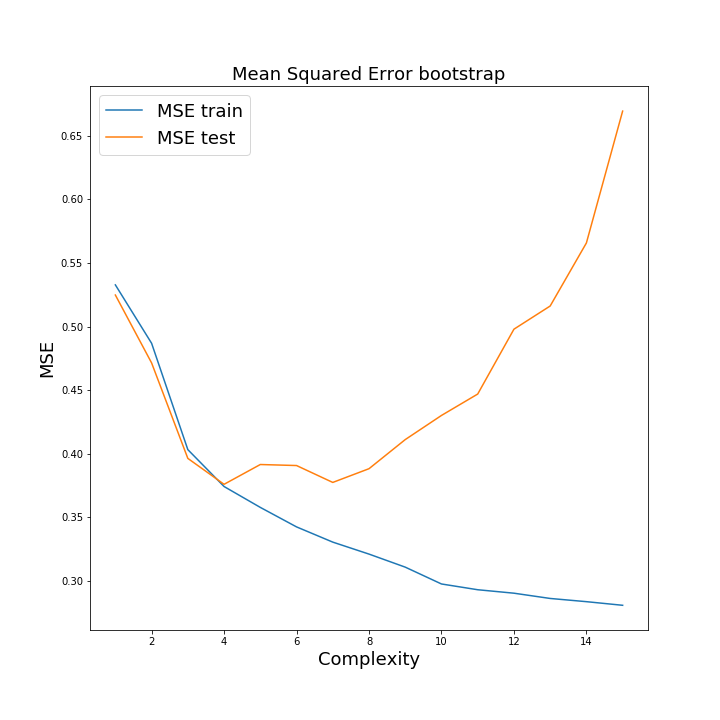
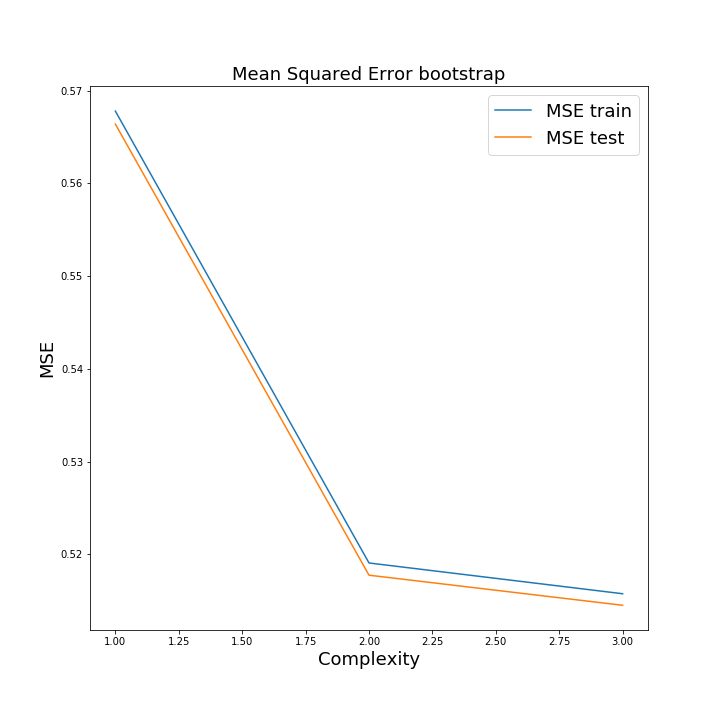
Working some more on ex. 6

diff --git a/Project1/ex1_terrain.py b/Project1/ex1_terrain.py
@@ -181,7 +181,7 @@ terrain1 = imread('SRTM_data_Norway_1.tif')
 z = (terrain1.flatten()).astype(float)
 N = len(z)
 x, y = np.meshgrid(range(terrain1.shape[1]), range(terrain1.shape[0])) #all possible (x,y) coordinates
-complex = 3 #complexity of model
+complex = 6 #complexity of model
 X = create_X(x.flatten(),y.flatten(), complex) #design matrix
 tts = train_test_split(X,z, test_size = 0.2)
 print(f"OLS terrain: {evaluate_method(ols, tts, scale = True, d = 5)}")
@@ -194,7 +194,7 @@ confidence_interval = ci(beta_l, variance_beta, N)
 
 
 #Exercise 2
-n_bs = 100 #number of bootstrap cycles
+n_bs = 5 #number of bootstrap cycles
 mse_test = np.zeros((complex, n_bs)) #for storing bootstrap samples' MSE for varying complexity (rows:complexity, columns:bootstrap sample)
 mse_train = np.zeros((complex, n_bs))
 r2_test = np.zeros((complex, n_bs))
@@ -205,8 +205,8 @@ print("Starting bootstrap")
 for j in range(n_bs): #looping through bootstrap samples
     X_sample, z_sample = bootstrap(tts[0],tts[2]) #using the same X_train and z_train data for each bootstrap
     tts2 = [X_sample, tts[1], z_sample, tts[3]]
-    if j % 10 == 0:
-        print(f"We are at bootstrap nr. {j}")
+    if j % 1 == 0:
+        print(f"We are at bootstrap nr. {j+1}")
     for i in range(complex): #looping through complexity of model
         mse_train[i,j], r2_train[i,j], mse_test[i,j], r2_test[i,j] = evaluate_method(ols, tts2, scale = True, d = i+1)
 
@@ -215,8 +215,8 @@ mean_mse_test = np.mean(mse_test, axis = 1)
 mean_r2_train = np.mean(r2_train, axis = 1)
 mean_r2_test = np.mean(r2_test, axis = 1)
 
-plot_mse(mean_mse_train, mean_mse_test, method_header = "bootstrap")
-
+plot_mse(mean_mse_train, mean_mse_test, method_header = "Bootstrap")
+del mean_mse_train, mean_mse_test, mean_r2_train, mean_r2_test
 
 #Exercise 3, K-fold
 print("Starting kfold")
@@ -238,7 +238,7 @@ for i in range(len(compl)):
         tts, lmb = lambdas_values[j], d=compl[i], scale = True)
 
 plot_mse(mse_train_lasso, mse_test_lasso, method_header = 'lasso', plot_complexity = True, lambdas = lambdas_values, complexities = compl)
-
+del mse_test_lasso, mse_train_lasso, r2_test_lasso, r2_train_lasso
 
 
 """
